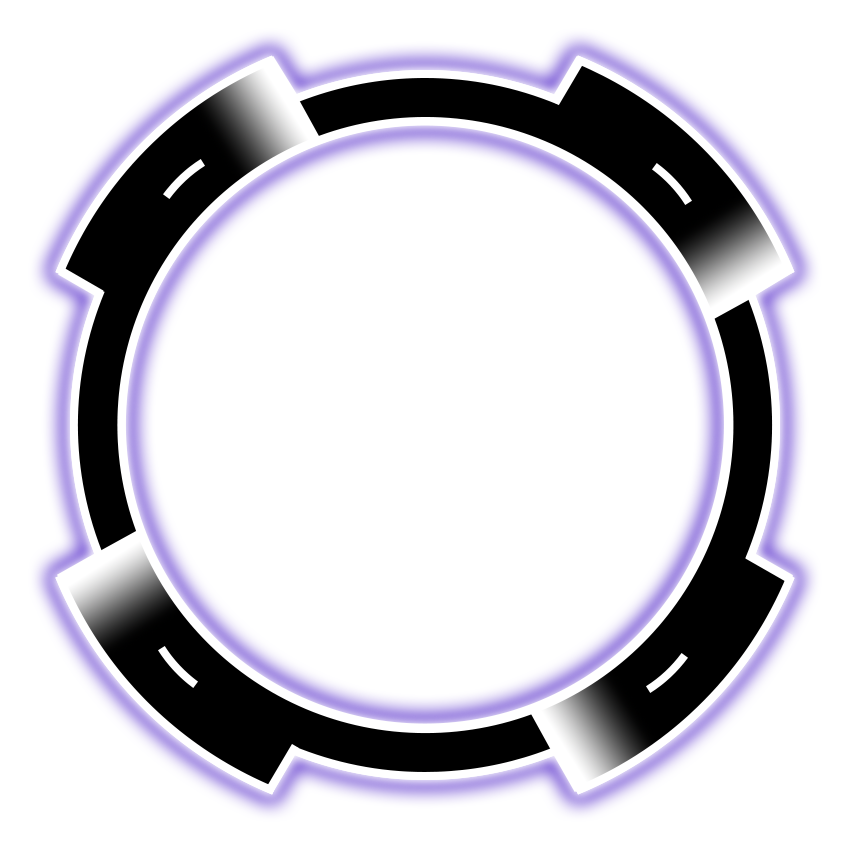
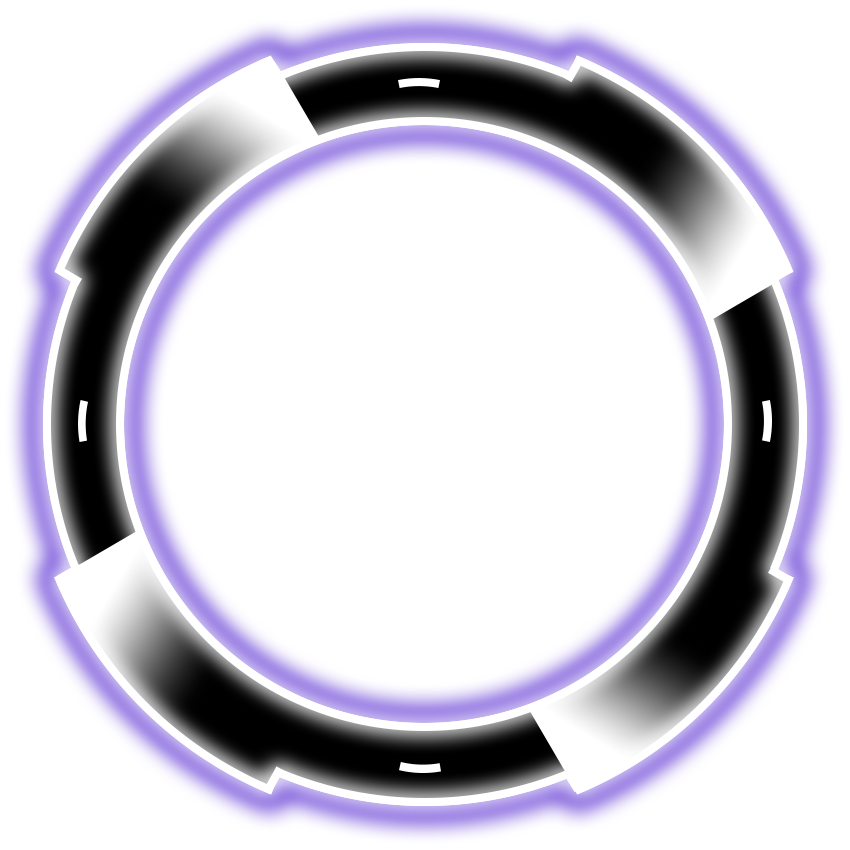
added circle tile client side

Changed region(s): [[0.0, 0.0, 1.0, 1.0]]

diff --git a/frontend/src/GameViewComponents/CircleTile.jsx b/frontend/src/GameViewComponents/CircleTile.jsx
@@ -14,7 +14,7 @@ const CircleTile = ({ type, tileSpeed, theme, targetTime, onMount, onMiss, id })
     //initializations
     useEffect(() => {
         if (type != "placeholder") {
-            // onMount(type, targetTime, controller)
+            onMount(type, targetTime, controller)
         }
         loadTile()
         // window.addEventListener("keypress", () => {tapTile("perfect")})
@@ -58,30 +58,35 @@ const CircleTile = ({ type, tileSpeed, theme, targetTime, onMount, onMiss, id })
     const animationY = useRef("0px")
     const animationName = useRef(null)
     const tappableRef = useRef(true)
+    const tappedRef = useRef(false)
 
     const tapTile = (accuracy) => {
         if (!tappableRef.current) {
             return
         }
+        tappedRef.current = true
         const circleIn = circleInRef.current
-        if (circleIn) {
+        const circleInWrapper = circleInWrapperRef.current
+        if (circleIn && circleInWrapper) {
             circleIn.style.animationPlayState = "paused"
+            circleInWrapper.style.animationPlayState = "paused"
+            circleIn.style.animation = "none"
             if (accuracy == "perfect") {
-                animationHeight.current = "100%"
-                animationWidth.current = "100%"
-                animationY.current = "22vh"
+                animationHeight.current = "calc(26.5vh * 1500 / 850)"
+                animationWidth.current = "calc(26.5vh * 1500 / 850)"
+                animationY.current = "calc(100vh - (16.5vh + 26.5vh / 2))"
                 switch (type) {
                     case "left":
-                        animationX.current = "calc(8vw + 11vh)"
+                        animationX.current = "calc(9vw + 26.5vh / 2)"
                         break
                     case "right":
-                        animationX.current = "calc(92vw - 11vh)"
+                        animationX.current = "calc(91vw - 26.5vh / 2)"
                         break
                 }
             } else {
-                const rect = circleIn.getBoundingClientRect()
-                animationHeight.current = (rect.height) + "px"
-                animationWidth.current = (rect.width) + "px"
+                const rect = circleInWrapper.getBoundingClientRect()
+                animationHeight.current = (rect.height * 1500 / 850) + "px"
+                animationWidth.current = (rect.height * 1500 / 850) + "px"
                 animationX.current = (rect.left + rect.width / 2) + "px"
                 animationY.current = (rect.top + rect.height / 2) + "px"
             }
@@ -90,32 +95,40 @@ const CircleTile = ({ type, tileSpeed, theme, targetTime, onMount, onMiss, id })
             } else {
                 animationName.current = `circle-${accuracy}`
             }
-            circleIn.style.animation = "none"
-            circleIn.style.opacity = 0
+            circleInWrapper.style.animation = "none"
             setPlayAnimation(true)
         }
     }
 
-    const unloadTile = () => {
+    const unloadTile = (directMiss=false) => {
         tappableRef.current = false
         const circleIn = circleInRef.current
         if (circleIn) {
-            circleIn.style.animation = "none"
-            circleIn.style.opacity = 0
+            if (directMiss) {
+                circleIn.style.animation = `decrease-opacity 0.3s linear forwards`
+                setTimeout(() => {
+                    setIsUnloaded(true)
+                }, 300);
+            } else {
+                circleIn.style.animation = "none"
+                circleIn.style.opacity = 0
+                setIsUnloaded(true)
+            }
         }
-        setIsUnloaded(true)
     }
 
     const handleMiss = () => {
-        onMiss(type, targetTime)
-        unloadTile()
+        if (!tappedRef.current) {
+            onMiss(type, targetTime)
+            unloadTile(true)
+        }
     }
 
     return (
         isUnloaded ? "" :
         <div className="screen" style={{zIndex: id}}>
-            {/* {playAnimation ?
-                <div style={{filter: "saturate(1.35) brightness(1.05)", zIndex: 1000}}>
+            {playAnimation ?
+                <div style={{zIndex: 1000}}>
                     <AnimationView 
                         height={animationHeight.current} 
                         width={animationWidth.current} 
@@ -127,19 +140,13 @@ const CircleTile = ({ type, tileSpeed, theme, targetTime, onMount, onMiss, id })
                     ></AnimationView> 
                 </div> :
                 ""
-            } */}
+            }
             <div className="circle-tile-wrapper" style={{right: type == "right" ? "9vw" : "auto", left: type == "left" ? "9vw" : "auto"}}>
-                {/* <img className="circle-tile-out" src={circleOut}></img> */}
-                <div className="circle-tile-in" ref={circleInRef} onAnimationEnd={() => {
-                    setTimeout(() => {
-                        circleInRef.current.style.animation = `decrease-opacity 0.3s linear forwards`
-                        console.log(circleInRef.current.style.animation)
-                        setTimeout(() => {
-                            // handleMiss()
-                        }, 300);
+                <div className="circle-tile-in" ref={circleInRef} style={{transform: "rotate(180deg)"}} onAnimationEnd={() => {
+                    setTimeout(() => {     
+                        handleMiss()
                     }, (tileSpeed * 0.16) * 1000)
-                }}
-                >
+                }}>
                     <div className="circle-tile-in-wrapper" ref={circleInWrapperRef}>
                         <img src={theme == "light" ? circleIn : circleIn} alt="circle" />
                     </div>

diff --git a/frontend/src/GameViewComponents/Platform.jsx b/frontend/src/GameViewComponents/Platform.jsx
@@ -7,6 +7,7 @@ import platformMiddleLeft from "../images/platform-middle-left-new.png"
 import platformMiddleRight from "../images/platform-middle-right-new.png"
 import platformRight from "../images/platform-right-new.png"
 import circleOut from "../images/tile-circle-out.png"
+import circleLight from "../images/tile-circle-light.png"
 
 
 const Platform = ({ settingsObj }) => {
@@ -17,6 +18,8 @@ const Platform = ({ settingsObj }) => {
     const [fPressed, setFPressed] = useState(false)
     const [jPressed, setJPressed] = useState(false)
     const [kPressed, setKPressed] = useState(false)
+    const [sPressed, setSPressed] = useState(false)
+    const [lPressed, setLPressed] = useState(false)
 
     const handleDownLocal = (e) => {
         const key = e.key
@@ -32,6 +35,12 @@ const Platform = ({ settingsObj }) => {
                 break
             case "k":
                 setKPressed(true)
+                break
+            case "s":
+                setSPressed(true)
+                break
+            case "l":
+                setLPressed(true)
                 break
         }
     }
@@ -50,10 +59,14 @@ const Platform = ({ settingsObj }) => {
             case "k":
                 setKPressed(false)
                 break
+            case "s":
+                setSPressed(false)
+                break
+            case "l":
+                setLPressed(false)
+                break
         }
     }
-
-    console.log(settingsObj.difficulty)
 
     useEffect(() => {
         window.addEventListener("keydown", handleDownLocal)
@@ -96,17 +109,21 @@ const Platform = ({ settingsObj }) => {
                 style={{opacity: kPressed ? opacityWhenDown : 0}}
             />
             {
-                settingsObj.difficulty == "Hard" || settingsObj.difficulty == "Extreme" ? 
-                <div className="circle-tile-wrapper" style={{right: "9vw", opacity: 0.88}}>
-                    <img className="circle-tile-out" src={circleOut}></img>
+                settingsObj.difficulty == "Hard" || settingsObj.difficulty == "Extreme" ?
+                <div>
+                    <div className="circle-tile-wrapper" style={{right: "9vw", opacity: lPressed ? opacityWhenDown : 0, zIndex: 8}}>
+                        <img className="circle-tile-out" src={circleLight}></img>
+                    </div> 
+                    <div className="circle-tile-wrapper" style={{left: "9vw", opacity: sPressed ? opacityWhenDown : 0, zIndex: 7}}>
+                        <img className="circle-tile-out" src={circleLight}></img>
+                    </div> 
+                    <div className="circle-tile-wrapper" style={{right: "9vw", opacity: 0.88, zIndex: 6}}>
+                        <img className="circle-tile-out" src={circleOut}></img>
+                    </div> 
+                    <div className="circle-tile-wrapper" style={{left: "9vw", opacity: 0.88, zIndex: 5}}>
+                        <img className="circle-tile-out" src={circleOut}></img>
+                    </div> 
                 </div> :
-                ""
-            }
-            {
-                settingsObj.difficulty == "Hard" || settingsObj.difficulty == "Extreme" ? 
-                <div className="circle-tile-wrapper" style={{left: "9vw", opacity: 0.88}}>
-                    <img className="circle-tile-out" src={circleOut}></img>
-                </div> : 
                 ""
             }
             <img src={platformBase} className="platform-base" alt="platformBase" draggable="false"/>

diff --git a/frontend/src/GameViewComponents/TileGenerator.jsx b/frontend/src/GameViewComponents/TileGenerator.jsx
@@ -2,6 +2,7 @@ import React, { useCallback, useEffect, useRef, useState } from 'react'
 import Tile from "./Tile"
 import HoldTile from './HoldTile'
 import "../styles/TileGenerator.css"
+import CircleTile from './CircleTile'
 
 const TileGenerator = ({ beatmapObj, onMount, tileSpeed, updateScoreAndCombo, getAllowStart, theme }) => {
 
@@ -288,6 +289,17 @@ const TileGenerator = ({ beatmapObj, onMount, tileSpeed, updateScoreAndCombo, ge
                                     id={tile.id}
                                     key={tile.id}
                                 ></HoldTile>
+                            case "circle":
+                                return <CircleTile 
+                                    type={tile.type} 
+                                    tileSpeed={tileSpeed} 
+                                    targetTime={tile.targetTime}
+                                    theme={theme}
+                                    onMount={onTileMount}
+                                    onMiss={onTileMiss}
+                                    id={tile.id}
+                                    key={tile.id}
+                                ></CircleTile>
                         }
                     })
                 }

diff --git a/frontend/src/utilComponents/TestView.js b/frontend/src/utilComponents/TestView.js
@@ -9,13 +9,15 @@ import "../GameView.css"
 
 const TestView = () => {
 
-    const size = 14
-
     return (
-        <div>
-            <CircleTile type={"left"} tileSpeed={1.3} theme={"dark"} targetTime={0} onMount={() => {}} onMiss={() => {}} id={1}></CircleTile>
-            <HoldTile type={"left"} tileSpeed={1.3} targetTime={0} elapseBeatCount={3} elapseTime={3} onMount={(type, targetTime, controller) => {}} onMiss={(type, targetTime) => {}} updateScoreAndCombo={(accuracy) => {}} id={100}/>
-            <Platform></Platform>
+        <div className="screen">
+            <div className="component" id="tile-generator">
+                <Tile type={"left"} tileSpeed={1.3} targetTime={0} elapseBeatCount={3} elapseTime={3} onMount={(type, targetTime, controller) => {}} onMiss={(type, targetTime) => {}} updateScoreAndCombo={(accuracy) => {}} id={100}/>
+                <CircleTile type={"left"} tileSpeed={1.3} theme={"dark"} targetTime={0} onMount={() => {}} onMiss={() => {}} id={10000}></CircleTile>   
+            </div>
+            <div className="component" id="platform"> 
+                <Platform settingsObj={{difficulty: "Hard"}}/>
+            </div>
         </div>
     )
 }

diff --git a/frontend/src/App.js b/frontend/src/App.js
@@ -11,7 +11,7 @@ import { useEffect, useRef, useState } from 'react'
 
 function App() {
 
-  const [view, setView] = useState("main")
+  const [view, setView] = useState("test")
   const [gameId, setGameId] = useState(0)
   const videoInfoRef = useRef({
     "id": {

diff --git a/frontend/src/styles/Tile.css b/frontend/src/styles/Tile.css
@@ -175,7 +175,7 @@
 }
 
 .circle-tile-wrapper {
-    height: 25vh;
+    height: 26.5vh;
     aspect-ratio: 1;
     /* border: 1px solid red; */
     position: absolute;
